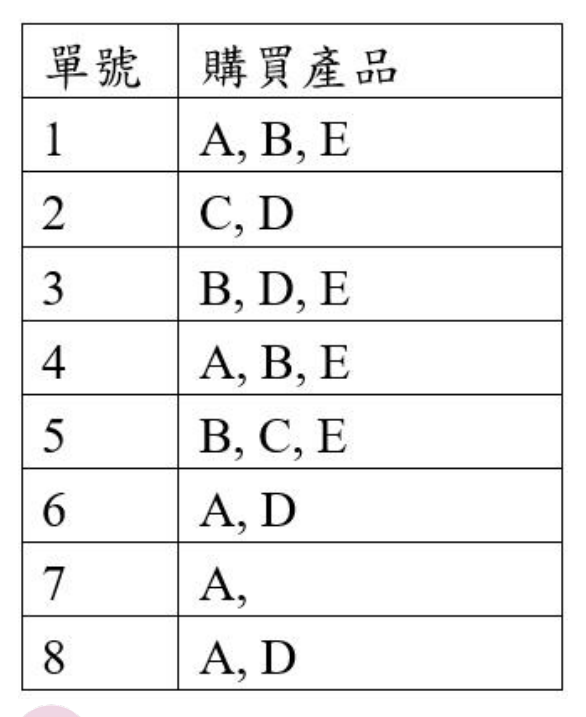
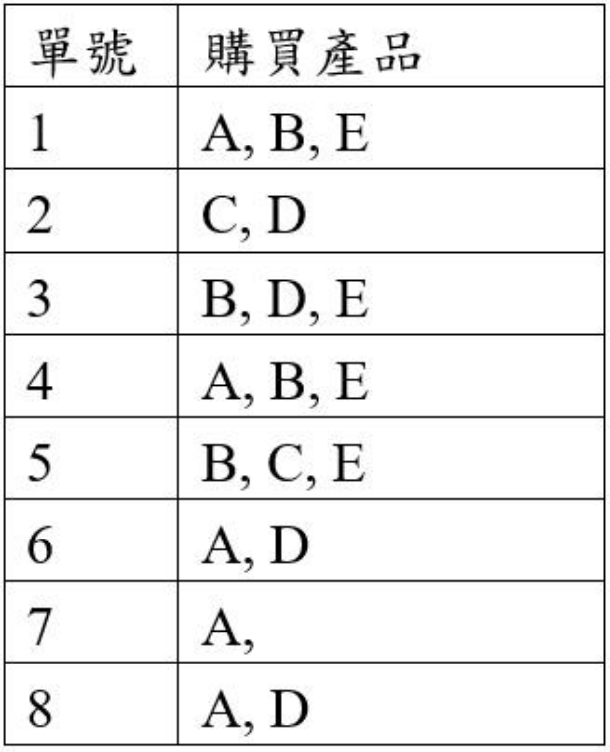
question: replace 115-1 L21/L22 visuals with human-reviewed crops

Changed region(s): [[0.0, 0.0, 1.0, 1.0]]

diff --git a/assets/official-visuals/README.md b/assets/official-visuals/README.md
@@ -14,8 +14,12 @@ Provenance:
 - Crop implementation: `falo-chinese/ipas-aiap/verification/fix_images.py`
 - Crop method: PyMuPDF direct PDF render/crop, 3x zoom, 6pt padding.
 
-Current inventory: 47 visual-dependent rows, 58 unique PNG crops.
+Current inventory: 47 visual-dependent rows, 61 unique PNG crops.
 
 ## 114-2-L23 manual override
 
 For `114-2-L23`, human-reviewed crops supplied from the official PDF replace the earlier automated grouping where option-level and shared-context boundaries required finer granularity (Q45–Q49). These remain source-faithful screenshots; no redraw or AI reconstruction was used.
+
+## 115-1-L21 / 115-1-L22 manual override
+
+Human-reviewed screenshots from the official PDFs replace the previous automated crops for these papers. For `115-1-L22 Q49`, the four option visuals are stored separately as `q49_a/b/c/d` and referenced together with the Q48–50 shared visual.
